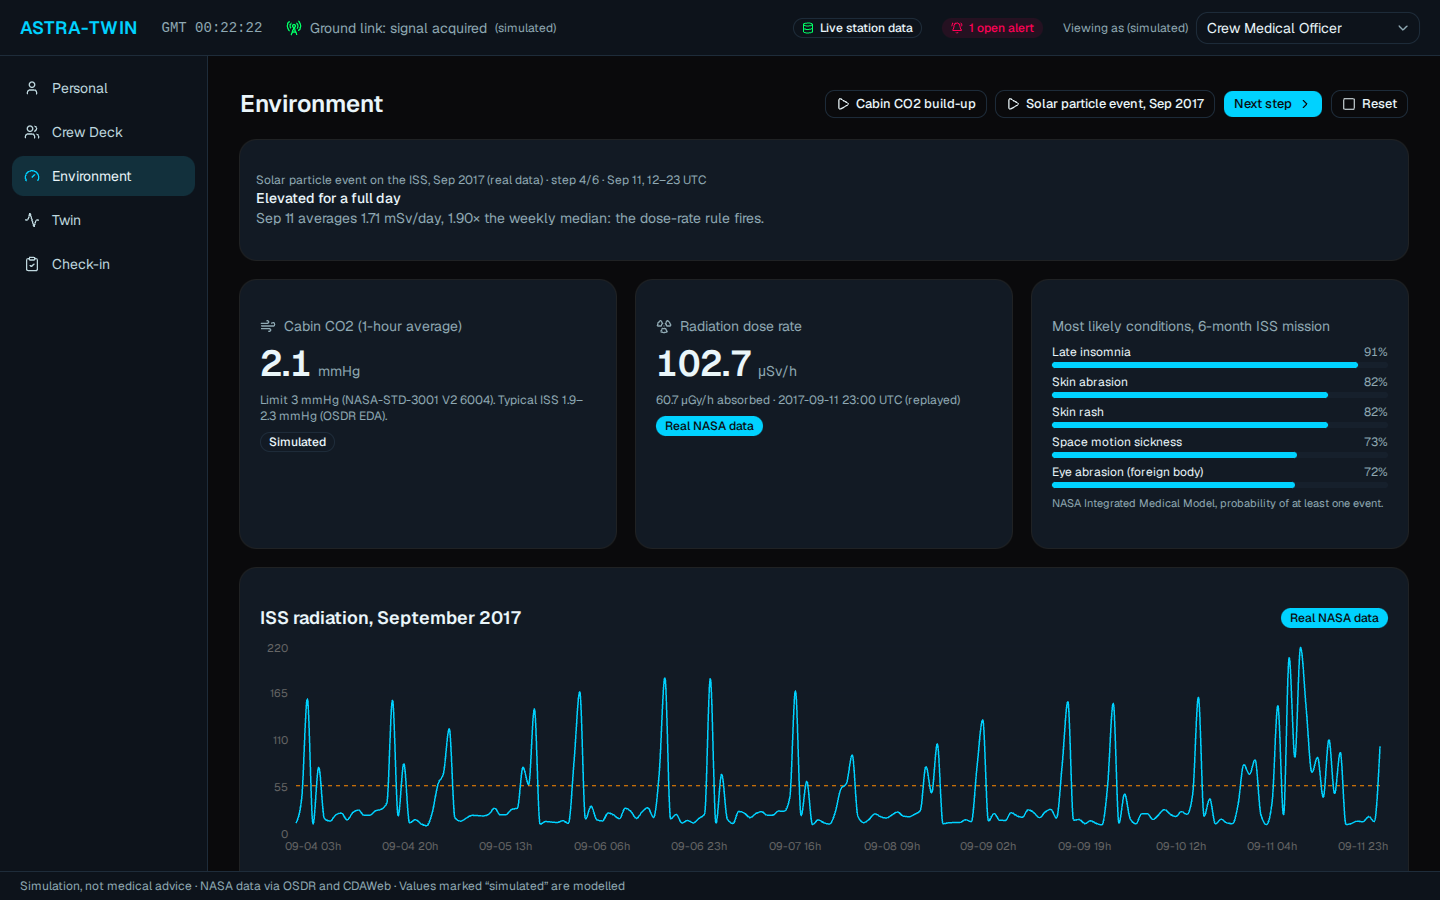
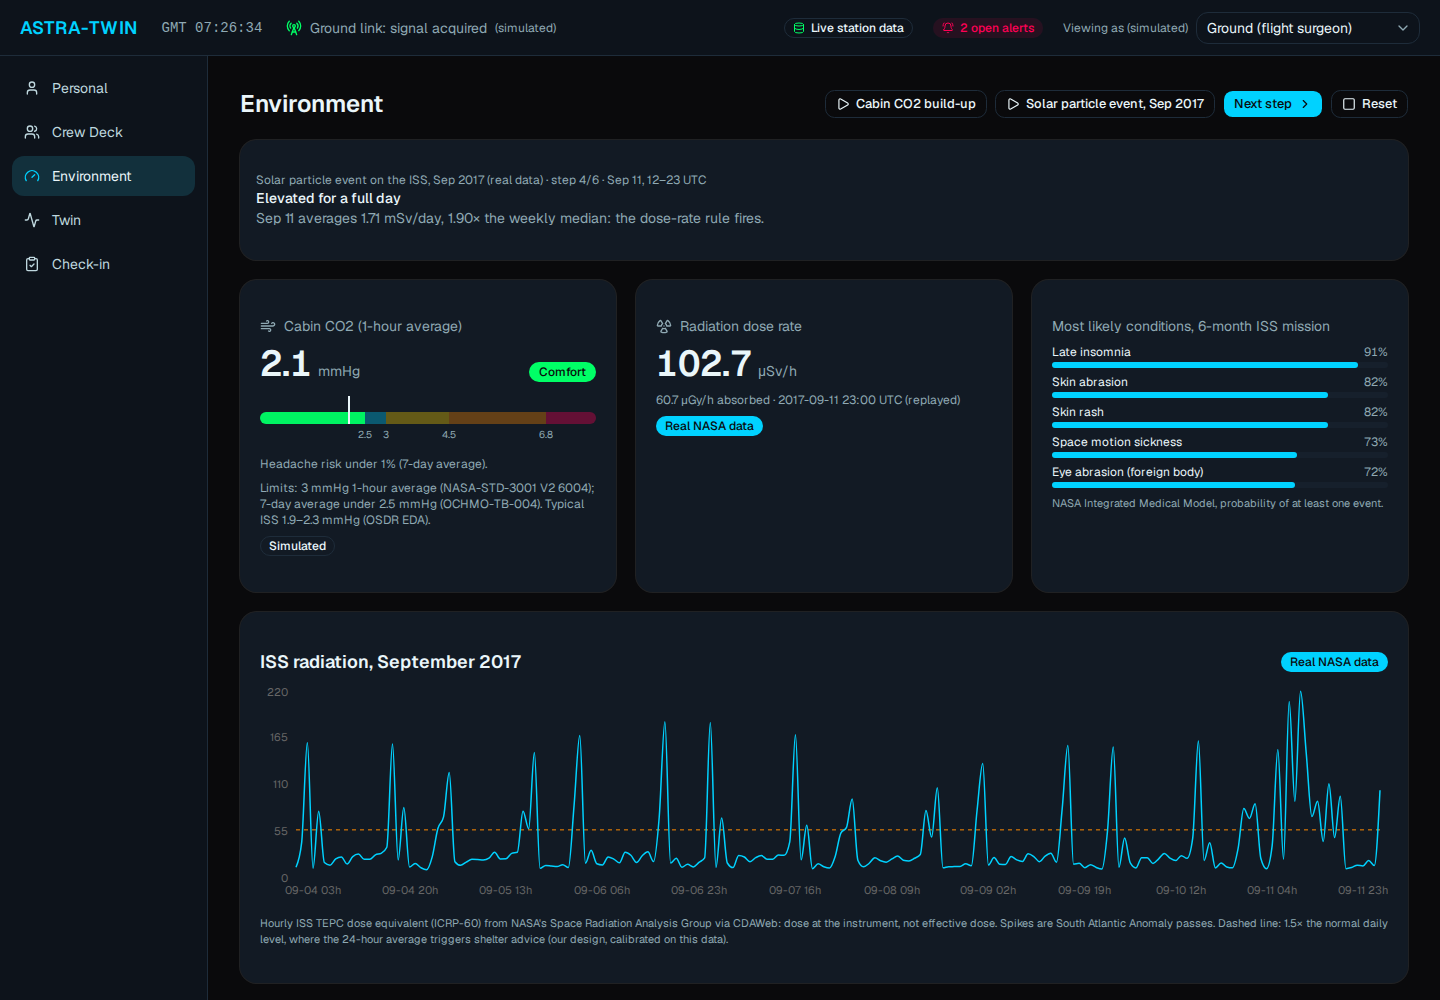
docs: retake the README screenshots on the current app
All ten from the running app with the live backend, captured through
the DevTools protocol in real time so animations finish:
- updated: crew-deck (levels from the crew stories), personal (low
  glucose next to real OSDR baselines), emergency, environment (Sep 11
  solar particle event, CO2 gauge), twin (C3 with the support plan
  waiting for ground approval), companion (phi3.5);
- new: partner-dose (DLR DosTel2 in Columbus, #13), bad-news-crew and
  bad-news-self (the private scenario, #75), support-alert (crisis ->
  CMO, #72).
README grid now tells that story in five rows.

diff --git a/README.md b/README.md
@@ -6,13 +6,19 @@ NASA Space Apps Challenge 2026 · *Create Health Monitoring Software for Astrona
 
 > Simulation, not medical advice. Values marked “simulated” are modelled.
 
+Screenshots from the running app with the live backend (2026-11-15).
+
 | Crew Deck | Personal twin |
 |---|---|
-| ![Crew Deck: the 7-person crew on a map of the ISS modules](docs/screenshots/crew-deck.png) | ![Personal screen: a low-glucose alert on the body figure, real NASA blood baselines](docs/screenshots/personal.png) |
-| **Emergency: a crewmate collapses** | **Environment: real ISS radiation, Sep 2017** |
-| ![Full-screen emergency: who, where, roles and the microgravity CPR checklist](docs/screenshots/emergency.png) | ![Environment: cabin CO2, NASA ISS dose data with the solar particle event, NASA IMM risks](docs/screenshots/environment.png) |
-| **Earth twin: forecasts and baselines** | **Private support companion** |
-| ![Twin: look-ahead slider, real ISS dose and private sleep-debt forecasts, simulated fluids and temperature, Earth Twin plan, forecast vs actual](docs/screenshots/twin.png) | ![Support companion running on a local model](docs/screenshots/companion.png) |
+| ![Crew Deck as the CMO: the 7-person crew on a map of the ISS modules, each with their level; C4 needs CMO review](docs/screenshots/crew-deck.png) | ![Personal screen: a low-glucose alert lights the blood region, next to real NASA OSDR pre-flight baselines from the Inspiration4 crew](docs/screenshots/personal.png) |
+| **Emergency: a crewmate collapses** | **Environment: real ISS radiation, Sep 2017 event** |
+| ![Full-screen emergency: who and where, proposed roles for the CMO to confirm, the microgravity CPR checklist and the emergency card](docs/screenshots/emergency.png) | ![Environment during the solar particle event: CO2 gauge with NASA limits, NASA TEPC dose rate on Sep 11, NASA IMM risks](docs/screenshots/environment.png) |
+| **Partner data: radiation in Columbus** | **Earth twin: forecasts and a support plan** |
+| ![DLR DosTel2 in the Columbus module, hosted by NASA OSDR RadLab, next to the NASA TEPC: the Sep 11 event shows in both, with the dose-rate alert below](docs/screenshots/partner-dose.png) | ![Twin for C3: look-ahead slider, private sleep debt past 18 h, real ISS dose, and the Earth Twin's 24–72 h support plan waiting for ground approval](docs/screenshots/twin.png) |
+| **Bad news from home: what the crew sees** | **Bad news from home: what C3 sees** |
+| ![Crew Deck as C2 during the private bad-news scenario: only "C3 requested reduced tasking", no reason](docs/screenshots/bad-news-crew.png) | ![C3's own Personal screen: private support steps, last night's 4.5 h and mood 28 from their check-in](docs/screenshots/bad-news-self.png) |
+| **Private support companion** | **Crisis → CMO, without the message** |
+| ![Support companion answering on a local model (phi3.5): sourced support options, no diagnosis, no drugs](docs/screenshots/companion.png) | ![CMO view: a "needs support now" band for C6 after crisis wording in the companion; who and when, never what was written](docs/screenshots/support-alert.png) |
 
 ## What it does
 

diff --git a/docs/PITCH.md b/docs/PITCH.md
@@ -147,6 +147,6 @@ Note: NASA did not disclose the medical details. Never describe it as a heart at
 
 ## Open items
 
-- Screenshots for slides 1, 3 and 4: real ones from the running app are in `docs/screenshots/` (1440×900, 2026-11-15). Slide 1: `crew-deck.png`; slide 3: `personal.png` | `crew-deck.png`; slide 4: `crew-deck.png` → `emergency.png`.
+- Screenshots for slides 1, 3 and 4: real ones from the running app with the live backend are in `docs/screenshots/` (1440×900; twin 1440×1000; partner-dose is a crop of the Environment page; retaken 2026-11-15 after #72–#76). Slide 1: `crew-deck.png`; slide 3: `personal.png` | `crew-deck.png`; slide 4: `crew-deck.png` → `emergency.png`.
 - If an AI-generated image is used anywhere, it needs a visible watermark and no NASA logo.
 - "Use of SI" must be disclosed in the submission (code and research done with SI assistance).
